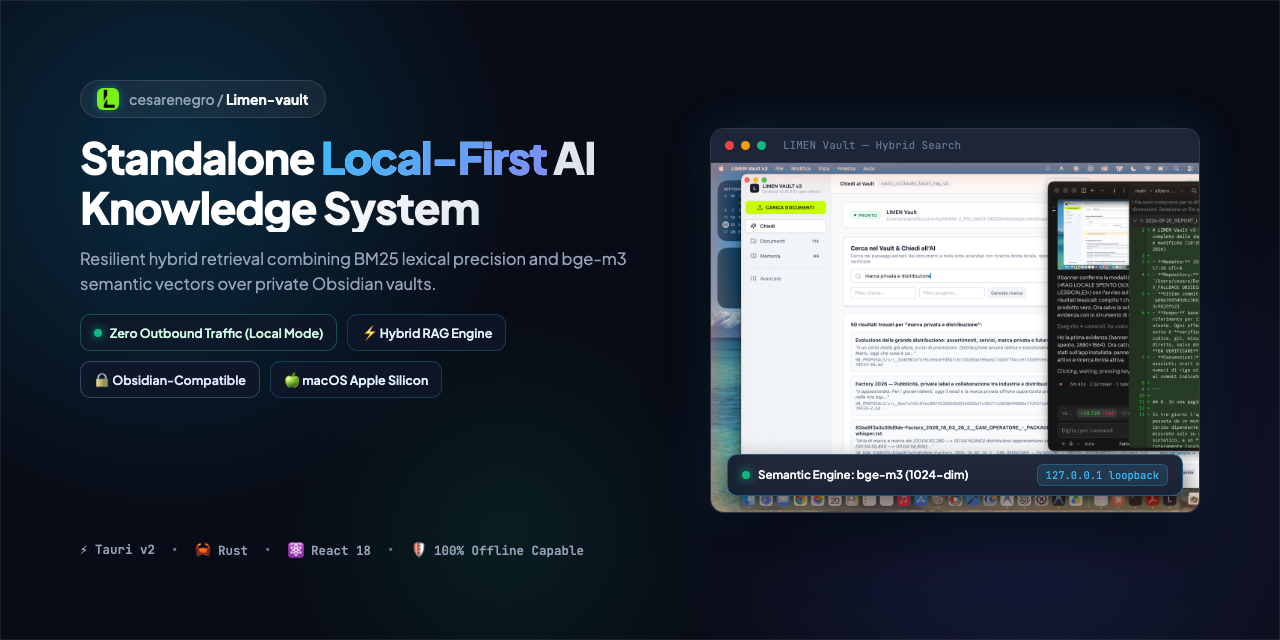
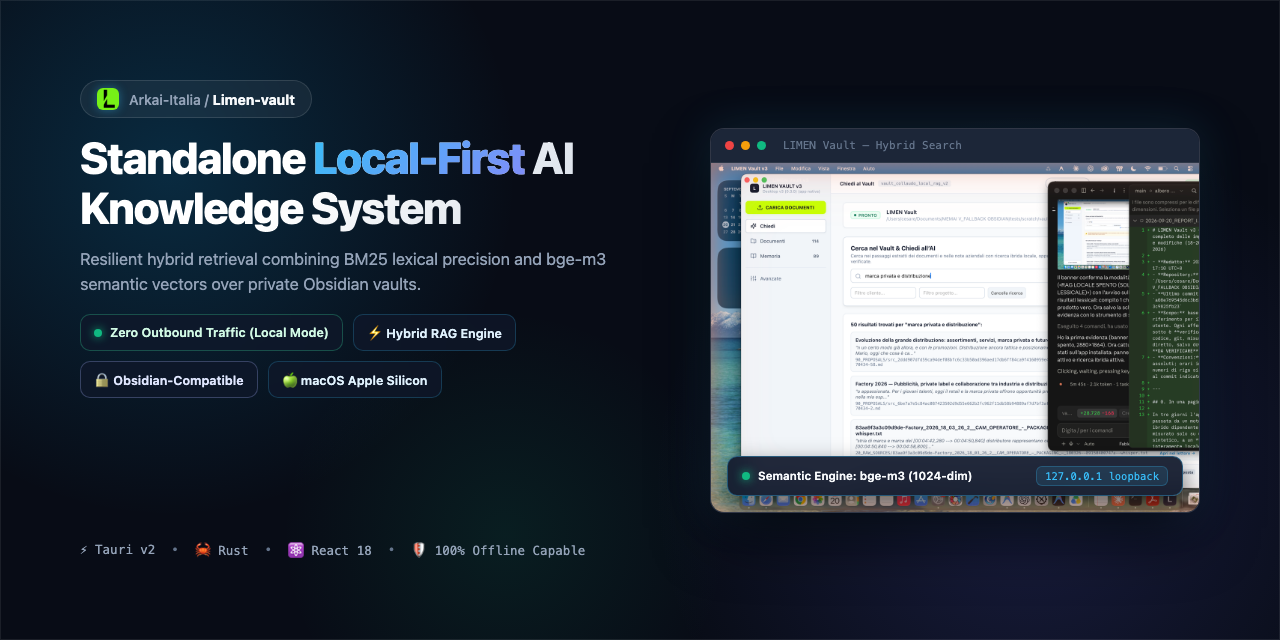
docs: update repository links and social preview to Arkai-Italia organization

diff --git a/README.md b/README.md
@@ -139,7 +139,7 @@ flowchart TD
 
 Heavy release binaries are intentionally omitted from the `main` source branch to keep the repository lightweight. A pre-compiled, Apple-notarized build for macOS Apple Silicon (`v7Mini 0.7.0`, ~49 MB) is hosted on GitHub and available via the direct verified link below:
 
-📥 **[Download LIMEN-Vault-v7Mini.dmg (macOS Apple Silicon)](https://github.com/cesarenegro/Limen-vault/raw/windows-build/USER%20INSTALL/LIMEN-Vault-v7Mini.dmg)**
+📥 **[Download LIMEN-Vault-v7Mini.dmg (macOS Apple Silicon)](https://github.com/Arkai-Italia/Limen-vault/raw/windows-build/USER%20INSTALL/LIMEN-Vault-v7Mini.dmg)**
 
 *Note: Future stable release tags will attach standalone binary packages directly to GitHub Releases.*
 
@@ -162,7 +162,7 @@ Heavy release binaries are intentionally omitted from the `main` source branch t
 
 ```bash
 # 1. Clone the repository
-git clone https://github.com/cesarenegro/Limen-vault.git
+git clone https://github.com/Arkai-Italia/Limen-vault.git
 cd Limen-vault
 
 # 2. Install monorepo dependencies
